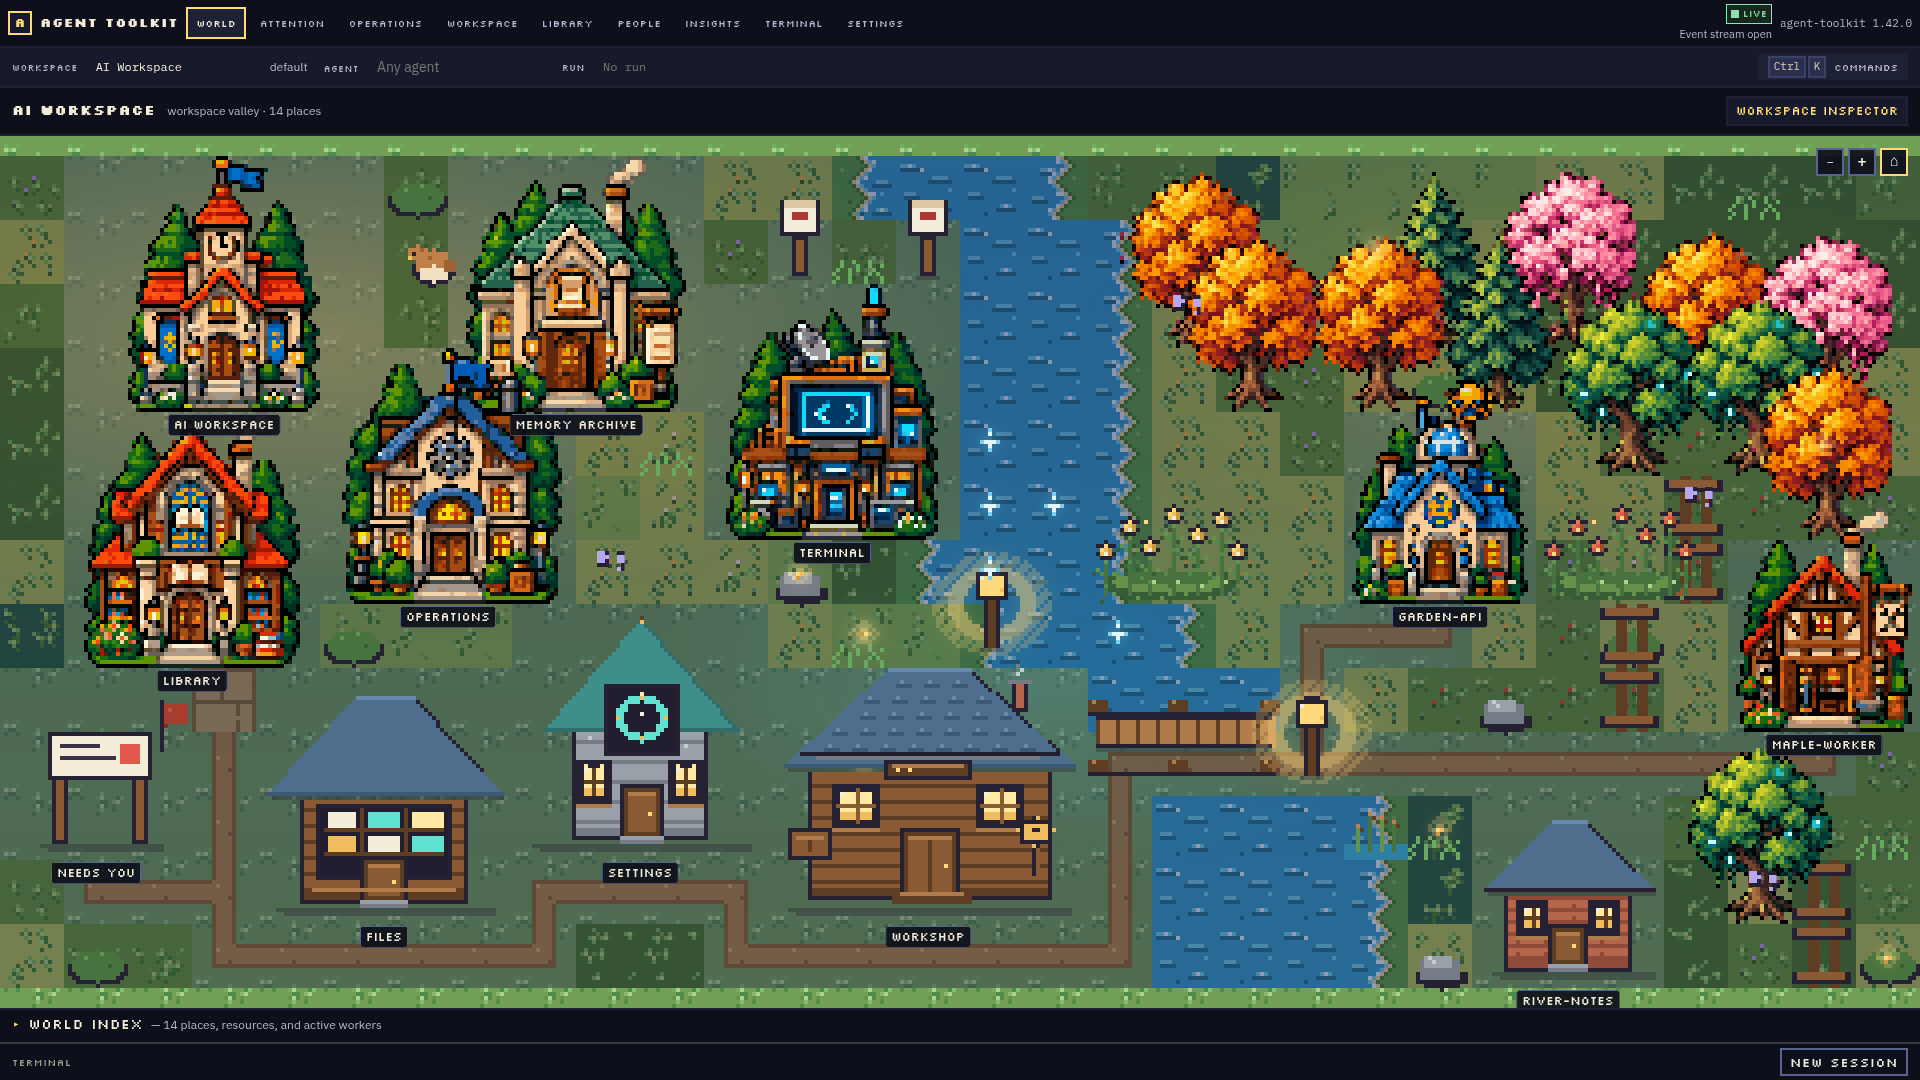
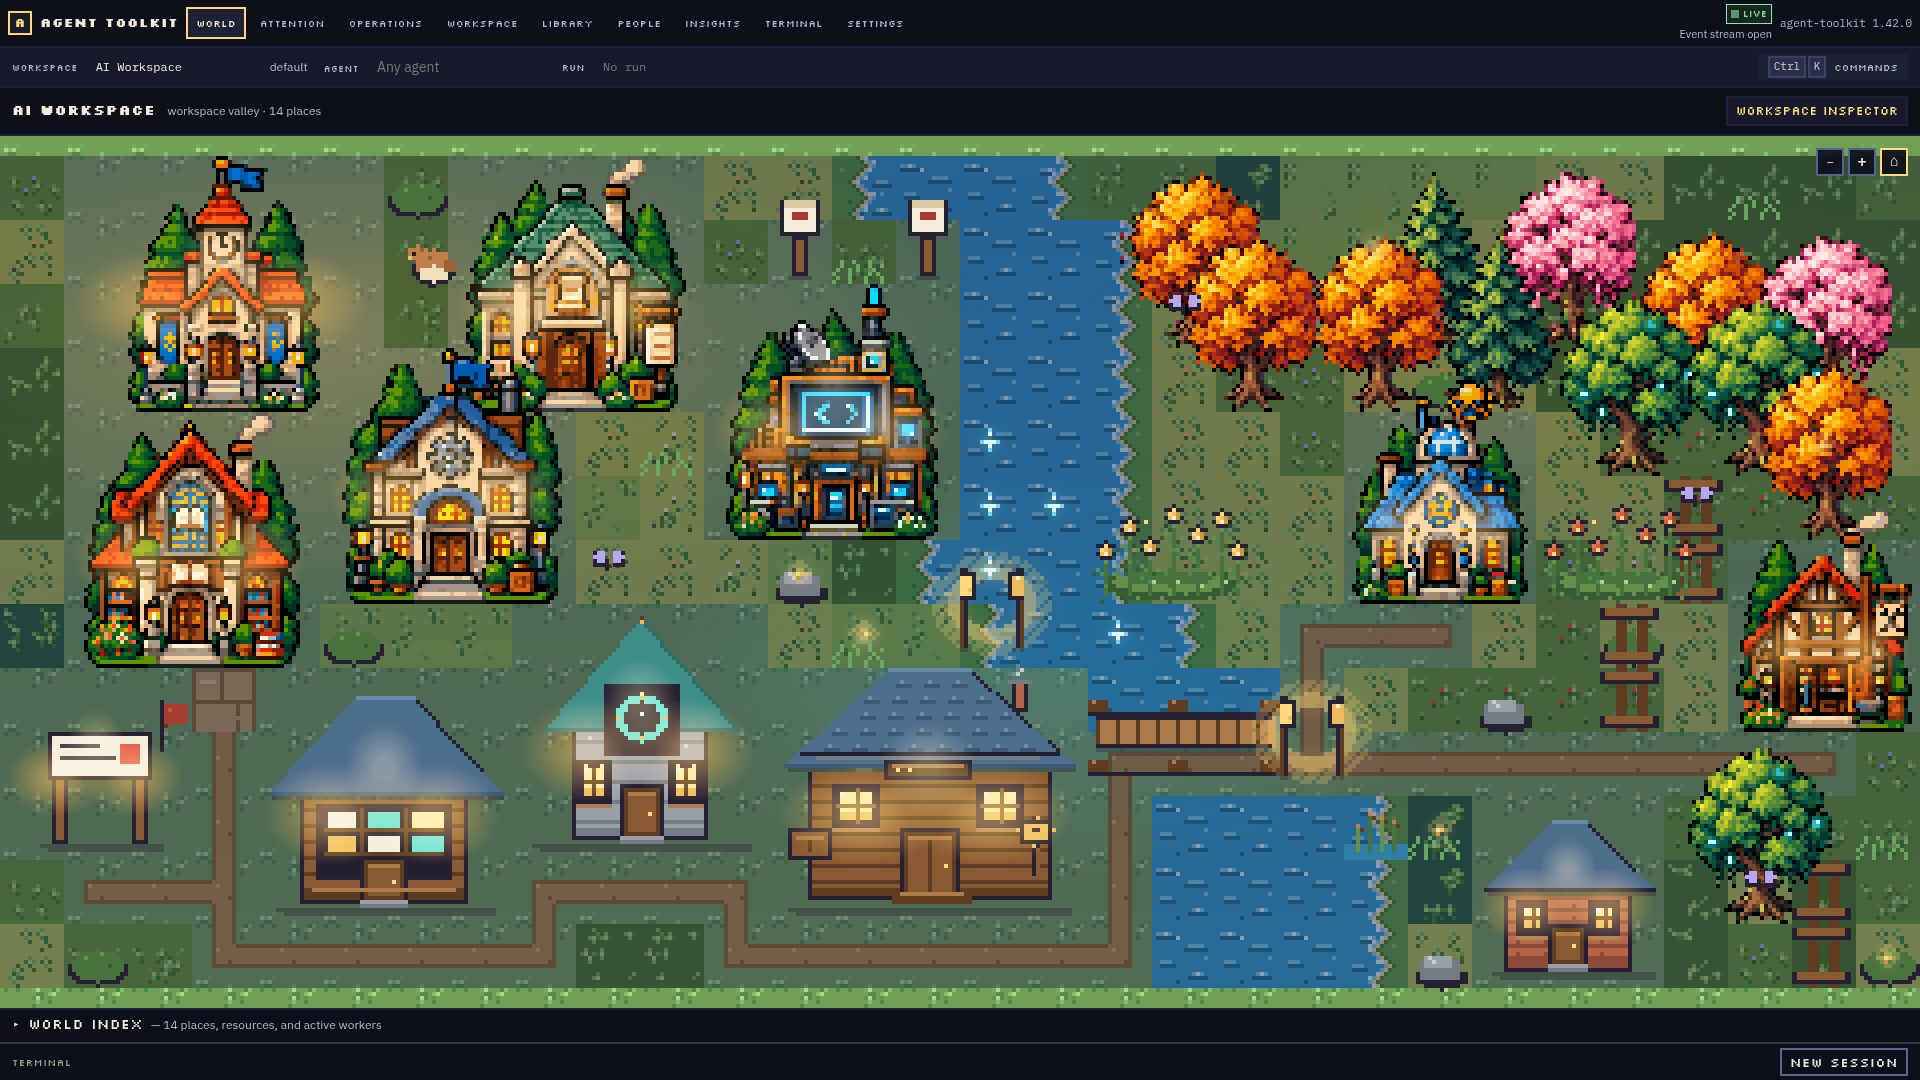
Polish resting world map presentation

diff --git a/apps/desktop/src/features/world/WorldEntityMap.tsx b/apps/desktop/src/features/world/WorldEntityMap.tsx
@@ -103,6 +103,7 @@ export function WorldEntityMap({
   const [zoom, setZoom] = useState<number>(48);
   const [pan, setPan] = useState({ x: 0, y: 0 });
   const [cameraMode, setCameraMode] = useState<'frame' | 'fit' | 'manual'>('frame');
+  const [hoveredId, setHoveredId] = useState<string | null>(null);
   const drag = useRef<{ x: number; y: number; panX: number; panY: number; moved: boolean } | null>(null);
   const suppressClick = useRef(false);
   const [tabVisible, setTabVisible] = useState(() => document.visibilityState !== 'hidden');
@@ -296,6 +297,7 @@ export function WorldEntityMap({
             tileSize={zoom}
             onSelect={onSelect}
             onActivate={onActivate}
+            onHover={setHoveredId}
           />
         ))}
         {plan.decor
@@ -304,16 +306,15 @@ export function WorldEntityMap({
             <DecorSpriteView key={d.id} decor={d} theme={theme} scale={scale} />
           ))}
         {entities
-          .filter(
-            (entity) => entity.kind !== 'character' && (entity.themeKey !== 'memory.entry' || entity.id === selectedId),
-          )
+          .filter((entity) => entity.kind !== 'character' && (entity.id === selectedId || entity.id === hoveredId))
           .map((entity) => (
             <span
               key={`label:${entity.id}`}
               className={styles.worldLabel}
+              data-entity-label-for={entity.id}
               aria-hidden="true"
               data-label-kind={entity.kind}
-              data-selected={entity.id === selectedId ? 'true' : undefined}
+              data-selected={entity.id === selectedId || entity.id === hoveredId ? 'true' : undefined}
               style={{
                 left: (entity.x + entity.w / 2) * zoom,
                 top: (entity.y + entity.h) * zoom + 2,
@@ -376,6 +377,7 @@ function EntityTile({
   tileSize,
   onSelect,
   onActivate,
+  onHover,
 }: {
   entity: LaidOutEntity;
   theme: WorldThemePack;
@@ -384,6 +386,7 @@ function EntityTile({
   tileSize: number;
   onSelect: (id: string) => void;
   onActivate: (entity: LaidOutEntity) => void;
+  onHover: (id: string | null) => void;
 }) {
   const asset = resolveEntityAsset(theme, entity);
   const isCharacter = entity.kind === 'character';
@@ -438,7 +441,17 @@ function EntityTile({
       }}
       onClick={canInspect ? () => activateEntity(entity, onSelect, onActivate) : undefined}
       onKeyDown={canInspect ? onKeyDown : undefined}
-      onFocus={canInspect ? () => onSelect(entity.id) : undefined}
+      onMouseEnter={canInspect ? () => onHover(entity.id) : undefined}
+      onMouseLeave={canInspect ? () => onHover(null) : undefined}
+      onFocus={
+        canInspect
+          ? () => {
+              onSelect(entity.id);
+              onHover(entity.id);
+            }
+          : undefined
+      }
+      onBlur={canInspect ? () => onHover(null) : undefined}
     >
       {src ? (
         <span

diff --git a/apps/desktop/src/features/world/WorldEntityMap.test.tsx b/apps/desktop/src/features/world/WorldEntityMap.test.tsx
@@ -207,13 +207,19 @@ describe('WorldEntityMap activation', () => {
     expect(terminalInspect?.getAttribute('href')).toContain('/terminal');
   });
 
-  it('keeps semantic plaques above the depth layer and out of duplicate screen-reader content', () => {
-    renderMap();
-    const plaques = [...document.querySelectorAll<HTMLElement>('[data-label-kind]')];
+  it('keeps the idle valley clear and reveals a semantic plaque on hover', async () => {
+    const { user } = renderMap();
+    expect(document.querySelector('[data-label-kind]')).toBeNull();
 
-    expect(plaques.length).toBeGreaterThan(0);
-    expect(plaques.every((plaque) => !plaque.closest('button'))).toBe(true);
-    expect(plaques.every((plaque) => plaque.getAttribute('aria-hidden') === 'true')).toBe(true);
+    const library = screen.getByRole('button', { name: /^Library · Capability library/i });
+    await user.hover(library);
+    const plaque = document.querySelector<HTMLElement>('[data-entity-label-for="object:library"]');
+    expect(plaque?.textContent).toBe('Library');
+    expect(plaque?.closest('button')).toBeNull();
+    expect(plaque?.getAttribute('aria-hidden')).toBe('true');
+
+    await user.unhover(library);
+    expect(document.querySelector('[data-label-kind]')).toBeNull();
   });
 
   it('activates project memory records via click and keyboard on /world', async () => {

diff --git a/apps/desktop/src/features/world/world.module.css b/apps/desktop/src/features/world/world.module.css
@@ -595,9 +595,9 @@
      keeps terrain legible while making the daylight meadow distinctly dusk;
      this layer stays below authored buildings, characters and lanterns. */
   background:
-    radial-gradient(ellipse at 16% 22%, rgb(255 190 104 / 30%), transparent 30%),
-    radial-gradient(ellipse at 55% 62%, rgb(93 194 209 / 21%), transparent 28%),
-    radial-gradient(ellipse at 84% 24%, rgb(255 194 110 / 24%), transparent 24%),
-    linear-gradient(180deg, rgb(31 39 87 / 48%), rgb(35 37 77 / 42%));
+    radial-gradient(ellipse at 16% 22%, rgb(255 190 104 / 34%), transparent 30%),
+    radial-gradient(ellipse at 55% 62%, rgb(93 194 209 / 28%), transparent 28%),
+    radial-gradient(ellipse at 84% 24%, rgb(255 194 110 / 30%), transparent 24%),
+    linear-gradient(180deg, rgb(31 39 87 / 30%), rgb(35 37 77 / 26%));
   mix-blend-mode: multiply;
 }

diff --git a/docs/desktop/VISUAL_QA.md b/docs/desktop/VISUAL_QA.md
@@ -201,6 +201,28 @@ those over illustrative SVG mockups; the only SVGs in its header are functional
 status badges. Use the visual review archive for empty-state and edge-case
 screenshots rather than replacing the product overview with an empty map.
 
+## Resting-world label and lighting review — 2026-10-07
+
+I captured the Electron world with the real backend and a disposable workspace
+containing three projects at 1024×640 and 1920×1080. I opened the compact and
+large Meadow/Dusk captures, the one-project view, and the several-project
+view. Permanent plaques made the map read like an annotated dashboard, so
+landmark labels now appear only for a hovered, keyboard-focused, or selected
+place. Its tooltip still explains the place, state, and action. The README
+hero now uses the real multi-project Meadow capture; the Dusk pair is also a
+real Electron screenshot rather than an illustration.
+
+The open map has more breathing room and the buildings and creek carry the
+scene without a label on every doorway. The selected project remains named;
+keyboard focus exposes the same plaque and tooltip as pointer hover. Dusk was
+too dark in the first opened capture, so I reduced the terrain tint and raised
+the warm clearing and creek-reflection pools, then recaptured both sizes. Water
+and grass now retain separation while Dusk still reads as evening. This is a
+clarity improvement, not final art sign-off: the paths remain geometric,
+the project-side lawn is broad, and the room needs further composition work.
+The current captures and all temporary screenshots were kept separate from
+the two user-owned Library evidence files.
+
 ## Current natural-ground capture — v1.42.0, 2026-10-06
 
 I recaptured the empty, one-project, and three-project workspace at 1024×640 and

diff --git a/README.md b/README.md
@@ -59,7 +59,7 @@ Install the matching AppImage or `.deb` on Linux, DMG on macOS, or NSIS installe
 | Real PTY terminal | Reviewed import |
 | <img src="static/screenshots/terminal.png" width="100%" alt="Live shell session with real command output in the integrated terminal" /> | <img src="static/screenshots/people-import.png" width="100%" alt="Munder hire import review showing mapped and ignored fields before saving" /> |
 
-These PNGs are captures from Electron with the real backend and a disposable workspace: offline People stay off the map, and the terminal is a live PTY. The links above go directly to CI, licensing, and release information. Current visual limits and capture evidence are tracked in [`docs/desktop/VISUAL_QA.md`](docs/desktop/VISUAL_QA.md).
+These PNGs are captures from Electron with the real backend and a disposable workspace: offline People stay off the map, and the terminal is a live PTY. Project and landmark names appear when you hover, focus, or select a place, keeping the resting valley clear while preserving keyboard discovery. The links above go directly to CI, licensing, and release information. Current visual limits and capture evidence are tracked in [`docs/desktop/VISUAL_QA.md`](docs/desktop/VISUAL_QA.md).
 
 ---
 
